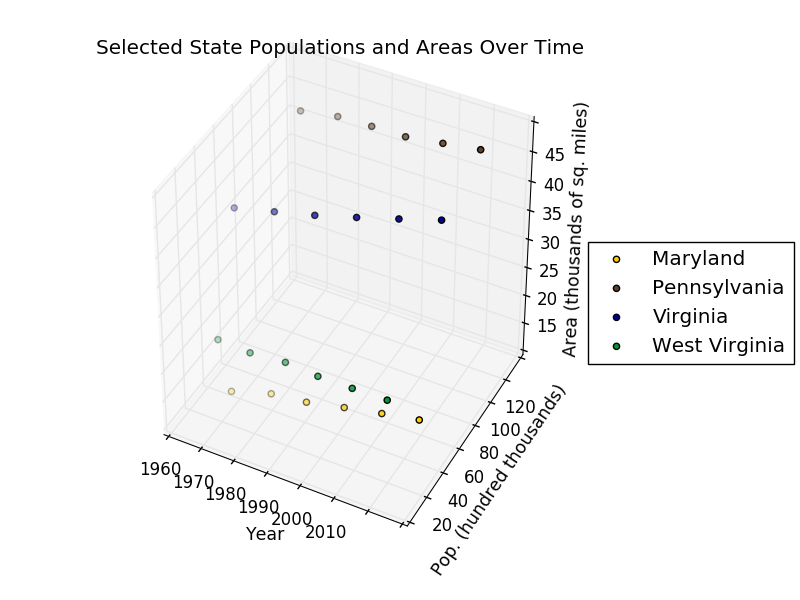
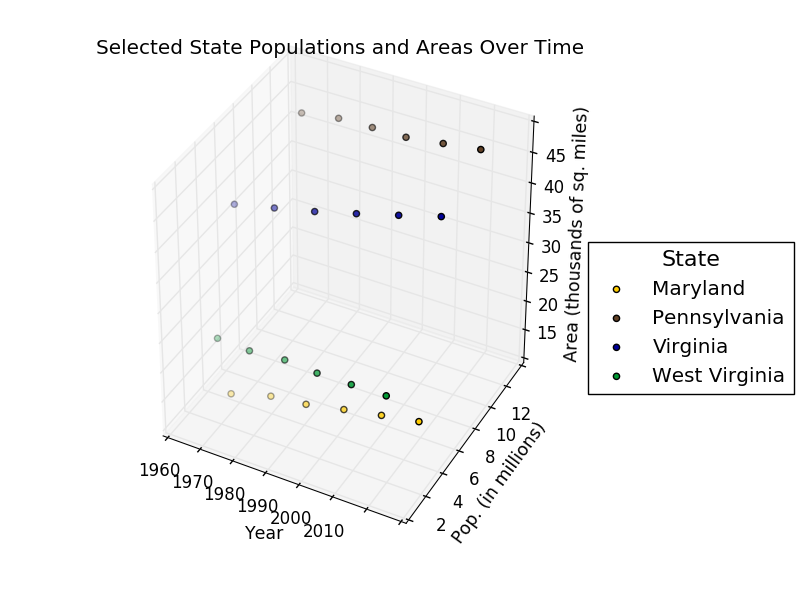
modify 3d scatter plot
change population scale from thousands to millions. add new image.

diff --git a/3d_scatter_plot.py b/3d_scatter_plot.py
@@ -19,13 +19,13 @@ census_data = pd.read_csv('census_data.csv',
 
 # SUBSET/PROCESS DATA.
 
-# Divide population values by 1000 for easier graph viewing.
-census_data['1960'] = census_data['1960'] / 100000
-census_data['1970'] = census_data['1970'] / 100000
-census_data['1980'] = census_data['1980'] / 100000
-census_data['1990'] = census_data['1990'] / 100000
-census_data['2000'] = census_data['2000'] / 100000
-census_data['2010'] = census_data['2010'] / 100000
+# Divide population values by 1000000 for easier graph viewing.
+census_data['1960'] = census_data['1960'] / 1000000
+census_data['1970'] = census_data['1970'] / 1000000
+census_data['1980'] = census_data['1980'] / 1000000
+census_data['1990'] = census_data['1990'] / 1000000
+census_data['2000'] = census_data['2000'] / 1000000
+census_data['2010'] = census_data['2010'] / 1000000
 
 # Specify states of interest.
 states = ['Maryland', 'Pennsylvania', 'Virginia', 'West Virginia']
@@ -93,7 +93,7 @@ plt.title('Selected State Populations and Areas Over Time')
 plt.xlabel('Year',
            fontsize = 12.5,
            color = 'black')
-plt.ylabel('Pop. (hundred thousands)',
+plt.ylabel('Pop. (in millions)',
            fontsize = 12.5,
            color = 'black')
 ax1.set_zlabel('Area (thousands of sq. miles)',
@@ -101,8 +101,10 @@ ax1.set_zlabel('Area (thousands of sq. miles)',
                color = 'black')
 
 # Add legend.
-plt.legend(scatterpoints = 1,
+legend = plt.legend(title = 'State',
+           scatterpoints = 1,
            bbox_to_anchor = (1.45, 0.6))
+plt.setp(legend.get_title(), fontsize = 16)
 
 # Adjust plot margins.
 plt.subplots_adjust(left = 0.12, bottom = 0.08, right = 0.73, top = 0.97)
